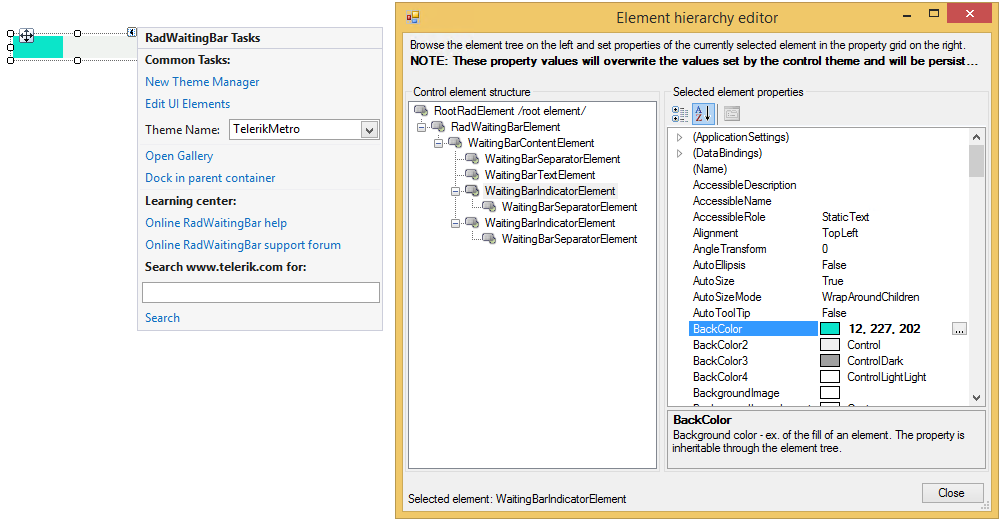
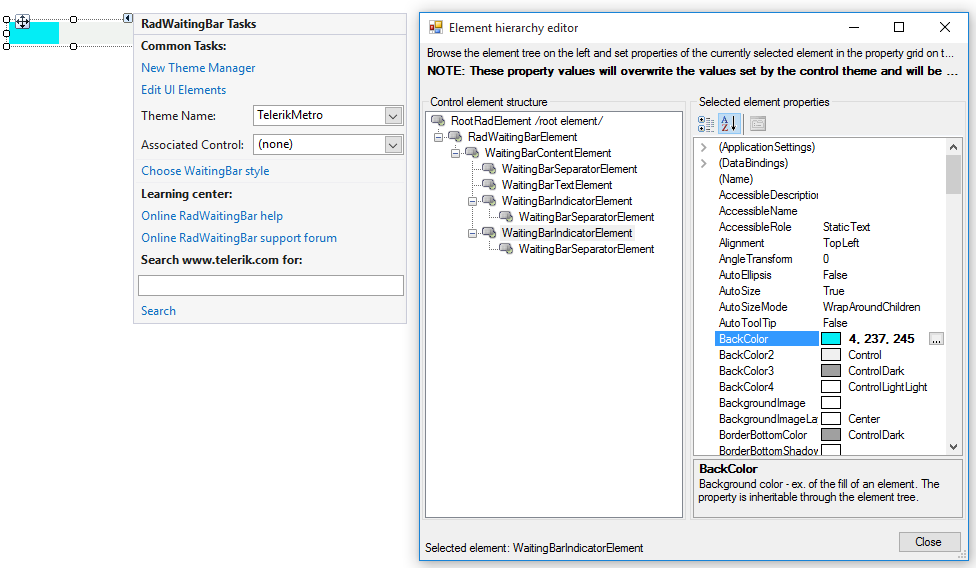
WaitingBar AssociatedControl update

Changed region(s): [[0.123, 0.0, 1.0, 1.0], [0.0, 0.0308, 0.0922, 0.1231]]

diff --git a/track-and-status-controls/waitingbar/associated-control.md b/track-and-status-controls/waitingbar/associated-control.md
@@ -24,7 +24,7 @@ The following tutorial demonstrates how to indicate the data loading operation i
 ![track-and-status-controls-waitingbar-associated-controls 002](images/track-and-status-controls-waitingbar-associated-control002.gif) 
 
 1. Add __RadWaitingBar__, __RadGridView__ and __RadButton__ to the form.
-2. Subscribe to the __Click__ event of __RadButton__ and call the RadWaitingBar.__SetAssociatedControlRuntime__ method passing the grid as a parameter. Thus, the waiting bar will be displayed over the grid while data is loading. After the data is loaded, call the __SetAssociatedControlRuntime__ method passing *null* as a parameter. Use the following code snippet:
+2. Subscribe to the __Click__ event of __RadButton__ and set the RadWaitingBar.__AssociatedControl__ property to the grid. Thus, the waiting bar will be displayed over the grid while data is loading. After the data is loaded, set the __AssociatedControl__ property to *null*. Use the following code snippet:
 
 #### Data loading
 
@@ -37,14 +37,14 @@ private void radButton1_Click(object sender, EventArgs e)
 {
     timer.Interval = 3000;
     timer.Tick += timer_Tick;
-    this.radWaitingBar1.SetAssociatedControlRuntime(this.radGridView1);
+     this.radWaitingBar1.AssociatedControl=this.radGridView1;
     this.radWaitingBar1.StartWaiting();
     timer.Start();
 }
 private void timer_Tick(object sender, EventArgs e)
 {
     timer.Stop();
-    this.radWaitingBar1.SetAssociatedControlRuntime(null);
+    this.radWaitingBar1.AssociatedControl=null;
     this.radGridView1.DataSource = this.categoriesBindingSource;
 }
 
@@ -54,13 +54,13 @@ Private timer As New System.Windows.Forms.Timer()
 Private Sub RadButton1_Click(sender As Object, e As EventArgs) Handles RadButton1.Click
     Timer.Interval = 3000
     AddHandler Timer.Tick, AddressOf timer_Tick
-    Me.RadWaitingBar1.SetAssociatedControlRuntime(Me.RadGridView1)
+    Me.RadWaitingBar1.AssociatedControl = Me.RadGridView1
     Me.RadWaitingBar1.StartWaiting()
     Timer.Start()
 End Sub
 Private Sub timer_Tick(sender As Object, e As EventArgs)
     timer.[Stop]()
-    Me.radWaitingBar1.SetAssociatedControlRuntime(Nothing)
+    Me.RadWaitingBar1.AssociatedControl = Nothing
     Me.radGridView1.DataSource = Me.categoriesBindingSource
 End Sub
 

diff --git a/track-and-status-controls/waitingbar/properties-methods-events.md b/track-and-status-controls/waitingbar/properties-methods-events.md
@@ -25,6 +25,7 @@ previous_url: track-and-status-controls-waitingbar-programming-radwaitingbar
 |__WaitingSpeed__|The property sets the speed of the animation. The higher the __WaitingSpeed__ is, the faster the waiting indicators move. __WaitingSpeed__ possible values range from *0* to *100*, where *1* sets the slowest indicator and *100* results in the fastest indicator. If the __WaitingSpeed__ is set to *0*,  the __WaitingStopped__ event is raised and the waiting process terminates. Then, if the __WaitingSpeed__ is set to a value greater than *0*, the __WaitingStarted__ event is raised and the waiting animation continues automatically.|![track-and-status-controls-waitingbar-properties-methods-events 014](images/track-and-status-controls-waitingbar-properties-methods-events014.gif)|
 |__WaitingStep__|Sets the number of pixels the waiting indicators move during each step of the waiting animation process. If the __WaitingStep__ is set to *0*, the __WaitingStopped__ event is raised and the waiting process terminates. Then, if the __WaitingStep__ is set to a value greater than *0*, the __WaitingStarted__ event raises and the waiting animation continues automatically.|![track-and-status-controls-waitingbar-properties-methods-events 015](images/track-and-status-controls-waitingbar-properties-methods-events015.gif)|
 |__WaitingStyle__|Sets the style of __RadWaitingBar__. Read more here: [Waiting Styles]({%slug winforms/track-and-status-controls/waiting-styles%})||
+|__AssociatedControl__|Specifies the associated control.||
 
 # Methods
 
@@ -33,7 +34,6 @@ previous_url: track-and-status-controls-waitingbar-programming-radwaitingbar
 |__StartWaiting__()|Starts the animation.|
 |__StopWaiting__()|Stops the animation.|
 |__ResetWaiting__()|Moves the waiting indicators to their initial position. Resetting the animation after the waiting process has been started will not stop the animation. Respectively, resetting the animation after the waiting process has been stopped will not start the animation.|
-|__SetAssociatedControlRuntime__|Specifies the associated control.|
 
 # Events
 

diff --git a/track-and-status-controls/waitingbar/structure.md b/track-and-status-controls/waitingbar/structure.md
@@ -26,5 +26,5 @@ previous_url: track-and-status-controls-waitingbar-structure
 
 
 
-The __RadWaitingBarElement__ represents the entire __RadWaitingBar__ control. Any settings you make at this level will be inherited by all elements further down in the tree. The __WaitingBarContentElement__ wraps up the layout logic of the waiting bar and arranges the waiting indicators, the separator element, and the text element. The __WaitingBarSeparatorElement__ covers the __WaitingBarContentElement__’s area completely with a customizable stripe-pattern, hiding the waiting indicators. Stretched in the __WaitingBarContentElement__, the __WaitingBarTextElement__ displays the text of the __RadWaitingBar__. By default, RadWaitingBar comprises two instances of WaitingBarIndicatorElements which represent the control indicators. Each __WaitingBarIndicatorElement__ contains a __WaitingBarSeparatorElement__ in order to allow the waiting indicators to support dash style.   
+The __RadWaitingBarElement__ represents the entire __RadWaitingBar__ control. Any settings you make at this level will be inherited by all elements further down in the tree. The __WaitingBarContentElement__ wraps up the layout logic of the waiting bar and arranges the waiting indicators, the separator element, and the text element. The __WaitingBarSeparatorElement__ covers the __WaitingBarContentElement__’s area completely with a customizable stripe-pattern, hiding the waiting indicators. Stretched in the __WaitingBarContentElement__, the __WaitingBarTextElement__ displays the text of the __RadWaitingBar__. By default, __RadWaitingBar__ comprises two instances of __WaitingBarIndicatorElements__ which represent the control indicators. Each __WaitingBarIndicatorElement__ contains a __WaitingBarSeparatorElement__ in order to allow the waiting indicators to support dash style.   
    

diff --git a/track-and-status-controls/waitingbar/design-time.md b/track-and-status-controls/waitingbar/design-time.md
@@ -27,7 +27,10 @@ When you drag a __RadWaitingBar__ from the Toolbox and drop it onto the form, th
 	* __Edit UI elements__: Opens a dialog that displays the *Element Hierarchy Editor*. This editor lets you browse all the elements in the control.
 
 	* __Theme Name__: Select a theme name from the drop down list of themes available for that control. Selecting a theme allows you to change all aspects of the controls visual style at one time.
-* __Choose WaitingBar style__: opens the gallery.
+	
+* __Associated Control__: Specifies the associated control.
+
+* __Choose WaitingBar style__: Opens the gallery.
 
 * __Learning Center__: Navigate to the Telerik help, code library projects or support forum.
 
